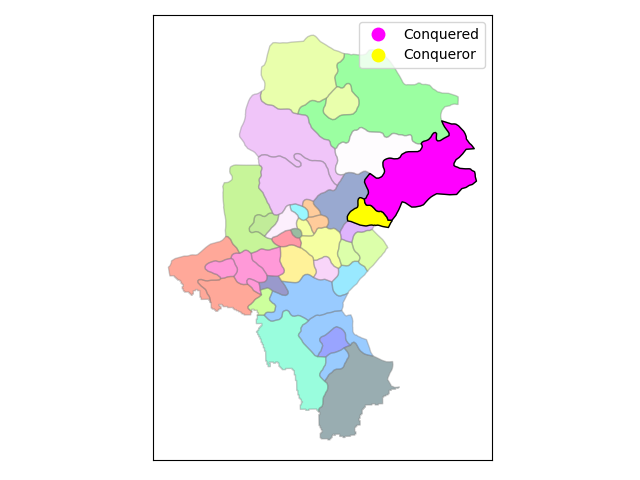
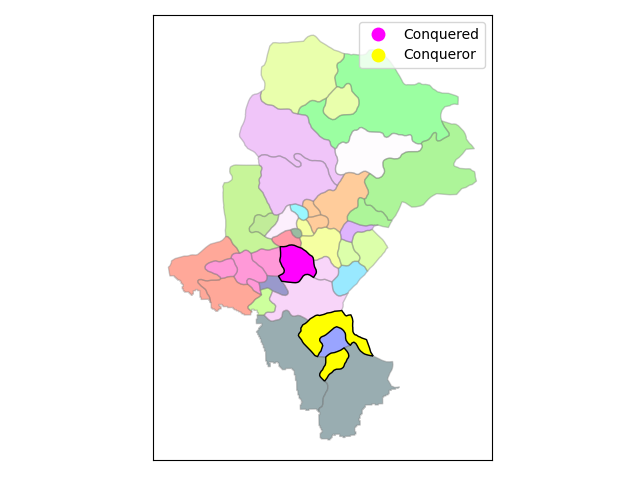
img

Changed region(s): [[0.375, 0.5, 0.5938, 0.875], [0.4688, 0.25, 0.75, 0.5]]

diff --git a/templates/res.html b/templates/res.html
@@ -2,6 +2,10 @@
 <link rel="stylesheet" href="../static/style.css">
 <p id="includedContent">
 
+<br /><br />8/3/2021 12:56  The county bielski conquered territory of mikolowski previously owned by county mikolowski. The county mikolowski was completely destroyed.
+<br /><br />8/3/2021 12:56  The county Tychy conquered territory of pszczynski previously owned by county bielski. 
+<br /><br />8/3/2021 12:55  The county Piekary Slaskie conquered territory of bedzinski previously owned by county bedzinski. The county bedzinski was completely destroyed.
+<br /><br />8/3/2021 12:55  The county zywiecki conquered territory of cieszynski previously owned by county cieszynski. The county cieszynski was completely destroyed.
 <br /><br />8/3/2021 12:51  The county Dabrowa Gornicza conquered territory of zawiercianski previously owned by county zawiercianski. 
 <br /><br />8/3/2021 12:51  The county klobucki conquered territory of Czestochowa previously owned by county Czestochowa. The county Czestochowa was completely destroyed.
 <br /><br />8/3/2021 12:50  The county zawiercianski conquered territory of myszkowski previously owned by county myszkowski. The county myszkowski was completely destroyed.

diff --git a/templates/scores.html b/templates/scores.html
@@ -5,28 +5,22 @@
 <td>0.52</td>
 <td>1</td>
 </tr><tr><td>zywiecki</td>
-<td>0.595</td>
-<td>1</td>
+<td>0.913</td>
+<td>2</td>
 </tr><tr><td>Swietochlowice</td>
 <td>0.426</td>
-<td>1</td>
-</tr><tr><td>bedzinski</td>
-<td>0.609</td>
 <td>1</td>
 </tr><tr><td>Bielsko-Biala</td>
 <td>0.449</td>
 <td>1</td>
 </tr><tr><td>bielski</td>
-<td>1.049</td>
+<td>0.909</td>
 <td>2</td>
 </tr><tr><td>bierunsko-ledzinski</td>
 <td>0.324</td>
 <td>1</td>
 </tr><tr><td>Bytom</td>
 <td>0.245</td>
-<td>1</td>
-</tr><tr><td>cieszynski</td>
-<td>0.318</td>
 <td>1</td>
 </tr><tr><td>czestochowski</td>
 <td>0.512</td>
@@ -52,12 +46,9 @@
 </tr><tr><td>Katowice</td>
 <td>0.63</td>
 <td>2</td>
-</tr><tr><td>mikolowski</td>
-<td>0.351</td>
-<td>1</td>
 </tr><tr><td>Piekary Slaskie</td>
-<td>1.093</td>
-<td>2</td>
+<td>1.702</td>
+<td>3</td>
 </tr><tr><td>raciborski</td>
 <td>0.901</td>
 <td>2</td>
@@ -74,8 +65,8 @@
 <td>0.953</td>
 <td>2</td>
 </tr><tr><td>Tychy</td>
-<td>0.352</td>
-<td>1</td>
+<td>0.843</td>
+<td>2</td>
 </tr><tr><td>Zabrze</td>
 <td>0.477</td>
 <td>1</td>

diff --git a/app.py b/app.py
@@ -12,6 +12,7 @@ atexit.register(lambda: scheduler.shutdown())
 
 app = Flask(__name__)
 
+
 @app.route('/', methods=['GET','POST'])
 def index():
     return render_template('index.html')
